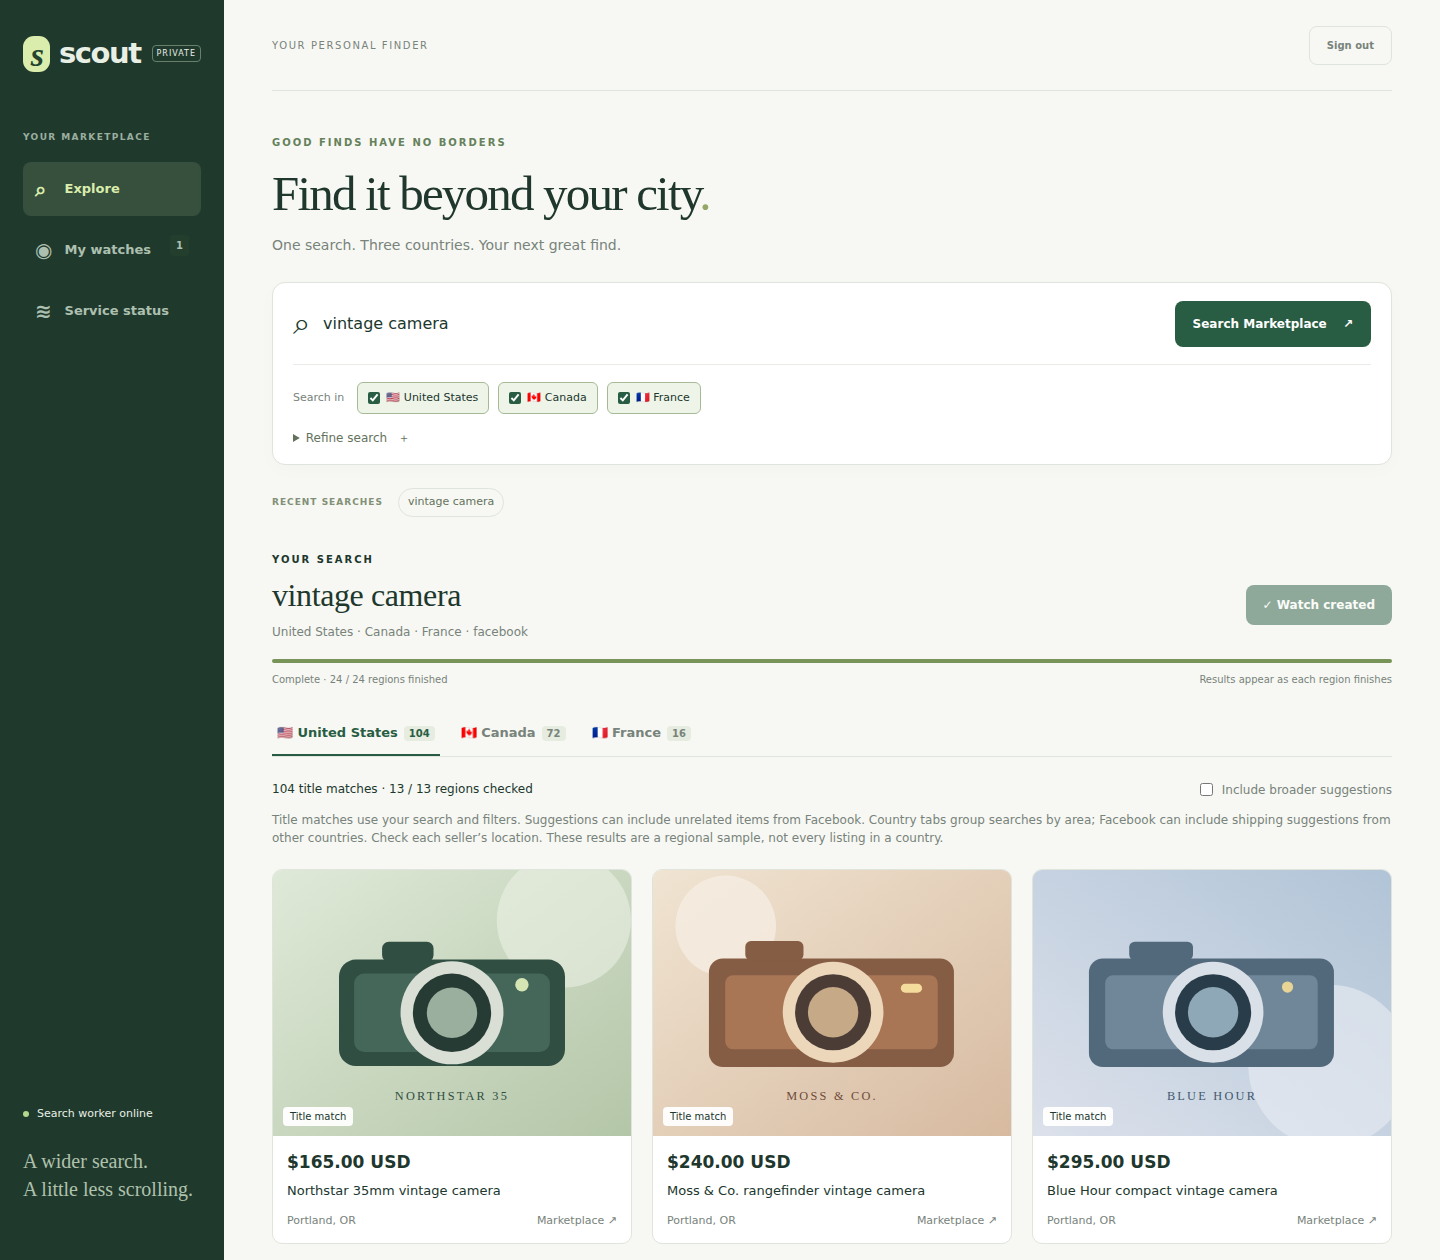
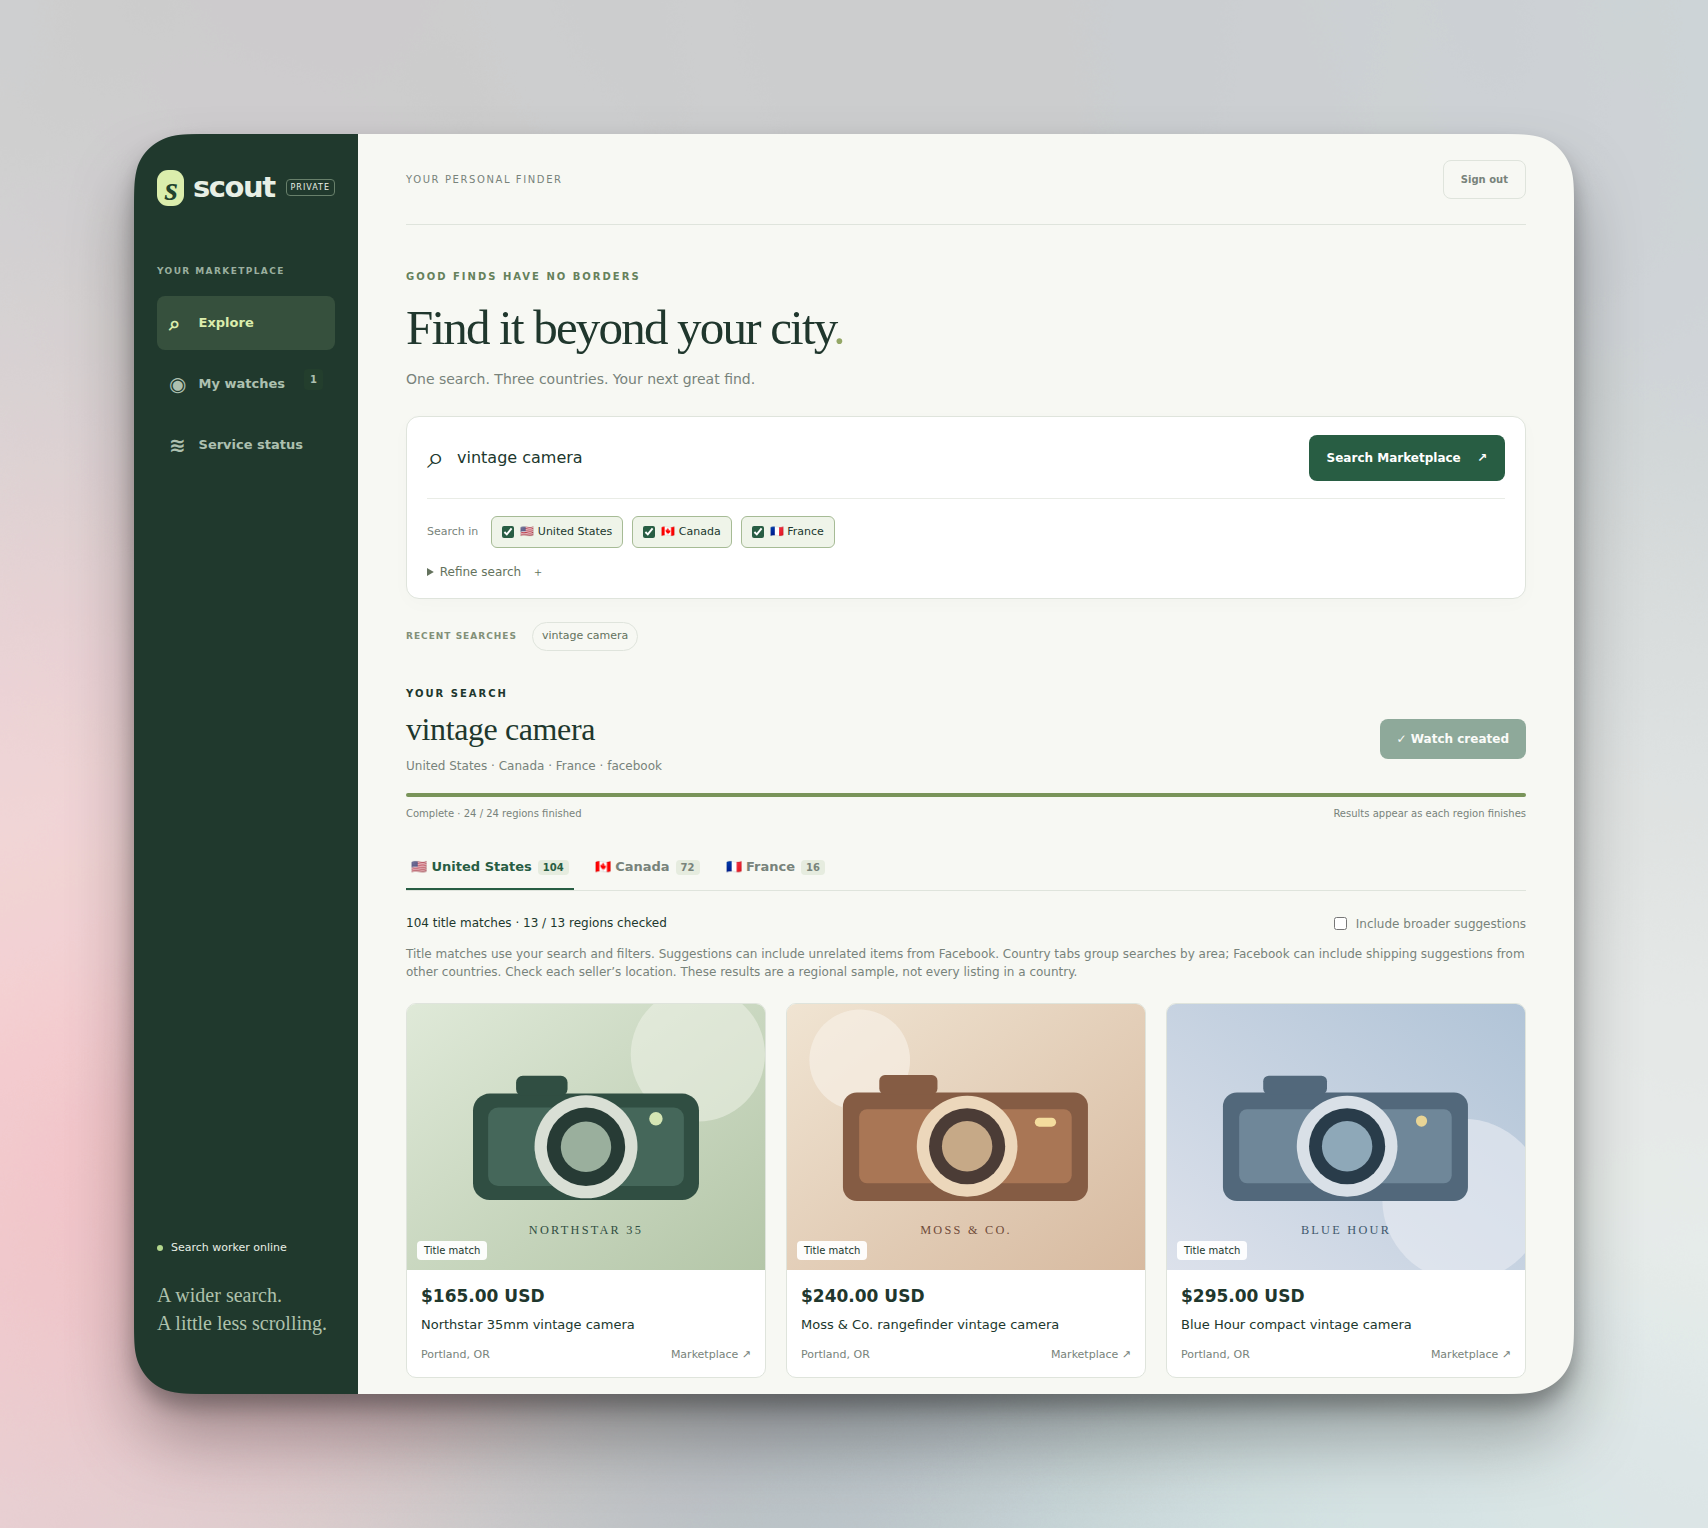
Restore Scout repository name and update README screenshot

diff --git a/docs/validation.md b/docs/validation.md
@@ -22,7 +22,7 @@ paths. Photo profiles require operator-supplied valid references; unavailable pr
 be selected for new watches. The existing runtime can retain its own private configuration,
 reference images and database while the source becomes portable.
 
-Hosted CI runs in [MelvinSDRS/Scout-Facebook-Marketplace-Wide-Search-and-Alerts](https://github.com/MelvinSDRS/Scout-Facebook-Marketplace-Wide-Search-and-Alerts). Repository visibility,
+Hosted CI runs in [MelvinSDRS/Scout](https://github.com/MelvinSDRS/Scout). Repository visibility,
 private-reporting configuration and registry publication are separate administrative actions.
 
 ## Local publication-preparation checks — 2026-09-08
@@ -42,7 +42,7 @@ network is disabled; one documented exception covers synthetic env fixture field
 
 ## Hosted validation — 2026-09-09
 
-[CI run 34309483861](https://github.com/MelvinSDRS/Scout-Facebook-Marketplace-Wide-Search-and-Alerts/actions/runs/34309483861) passed on
+[CI run 34309483861](https://github.com/MelvinSDRS/Scout/actions/runs/34309483861) passed on
 Ubuntu 24.04 for initial commit `8ec74d233faa2da3e846027c7d4c67f9af9930bd`. It verified the
 locked dependency installation, Chromium/browser checks, lint/format, JavaScript syntax,
 regression tests, source secret scan, full-history Gitleaks scan, wheel/source builds, release
@@ -57,7 +57,7 @@ secrets or vulnerabilities have been ruled out.
 
 ## README demonstration screenshot
 
-Regenerate the README image from the real dashboard and a temporary demo database:
+Generate the underlying dashboard capture from the real interface and a temporary demo database:
 
 ```bash
 uv run python tools/readme_screenshot.py
@@ -70,7 +70,9 @@ requests, and never starts the Facebook worker or sends Telegram messages. The
 output is `docs/images/scout-dashboard.png`; set `SCOUT_SCREENSHOT_OUTPUT` to
 choose another path. Its demo database is removed afterward.
 
-The reviewed demo image is intended for the GitHub README. `docs/images` is
+The README uses an operator-supplied, framed version of this capture. The script
+regenerates the unframed dashboard; use `SCOUT_SCREENSHOT_OUTPUT` to avoid
+overwriting the curated image. The reviewed image is intended for the GitHub README. `docs/images` is
 excluded from source distributions, preserving the release check that rejects
 bundled screenshots and reference photos. Production screenshots and account
 state must remain private.

diff --git a/README.md b/README.md
@@ -12,8 +12,6 @@ A self-hosted dashboard for Facebook Marketplace searches, saved watches and Tel
 
 ![Scout dashboard showing a demonstration search with product images, prices and regional results](docs/images/scout-dashboard.png)
 
-*The real Scout interface with fictional demo listings and original illustrations. No personal account data or seller photos are shown.*
-
 ## What you can do
 
 - **Explore across borders.** Search regional areas in the USA, Canada and mainland France from one place.
@@ -32,7 +30,7 @@ You need **Linux**, **Python 3.12+**, [uv](https://docs.astral.sh/uv/) and a Fac
 ### 1. Install Scout
 
 ```bash
-git clone https://github.com/MelvinSDRS/Scout-Facebook-Marketplace-Wide-Search-and-Alerts.git Scout
+git clone https://github.com/MelvinSDRS/Scout.git
 cd Scout
 uv sync --frozen
 ```

diff --git a/CONTRIBUTING.md b/CONTRIBUTING.md
@@ -56,6 +56,6 @@ Private runtime files are excluded by an explicit source-distribution allowlist 
 Do not add blanket secret-scan exclusions or accept a generated baseline without review.
 False-positive fixture exceptions must be narrow and explain why the value is synthetic.
 
-The repository is [MelvinSDRS/Scout-Facebook-Marketplace-Wide-Search-and-Alerts](https://github.com/MelvinSDRS/Scout-Facebook-Marketplace-Wide-Search-and-Alerts).
+The repository is [MelvinSDRS/Scout](https://github.com/MelvinSDRS/Scout).
 Verify any registry package name before publishing there; installing from this source checkout
 or its wheel does not reserve a public package name.
